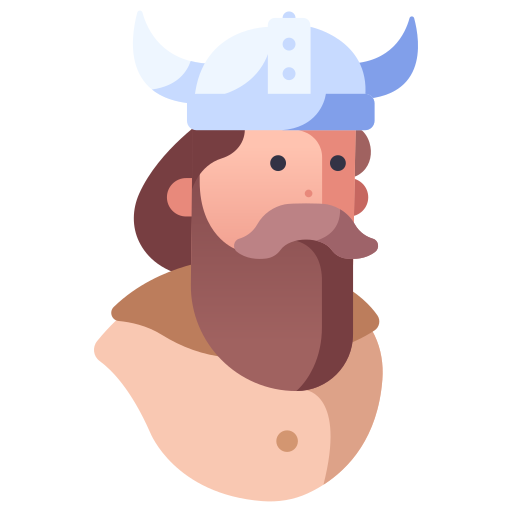
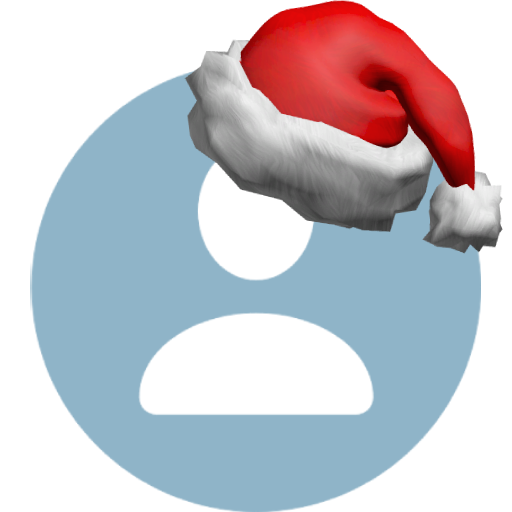
gg

diff --git a/src/pages/Casino/subpages/GamesByTag.module.css b/src/pages/Casino/subpages/GamesByTag.module.css
@@ -1,49 +1,114 @@
 .TagGames {
-    /* background: #153c55; */
-    padding: 0.5rem;
-    border-radius: 10px;
+  /* background: #153c55; */
+  padding: 0.5rem;
+  border-radius: 10px;
 }
 .Loading {
-    display: flex;
-    flex-direction: column;
-    justify-content: center;
-    align-items: center; 
-    height: 220px;
-    gap: 20px;
-    color: rgb(225, 225, 225);
+  display: flex;
+  flex-direction: column;
+  justify-content: center;
+  align-items: center;
+  height: 220px;
+  gap: 20px;
+  color: rgb(225, 225, 225);
 }
 .Header {
-    margin-bottom: 0.75rem;
-    display: flex;
-    align-items: center;
+  margin-bottom: 0.75rem;
+  display: flex;
+  align-items: center;
 }
 
 .Title {
-    display: flex;
-    align-items: center;
-    font-size: 0.875rem;
-    line-height: 1.25rem;
-    font-weight: 700;
-    --tw-text-opacity: 1;
-    color: rgb(255 255 255 / var(--tw-text-opacity));
+  display: flex;
+  align-items: center;
+  font-size: 0.875rem;
+  line-height: 1.25rem;
+  font-weight: 700;
+  --tw-text-opacity: 1;
+  color: rgb(255 255 255 / var(--tw-text-opacity));
 }
 
 .MoreLoadingAnimation {
-    height: 15rem;
-    width: 15rem;
-    border-radius: 0.375rem;
+  height: 15rem;
+  width: 15rem;
+  border-radius: 0.375rem;
 }
 
 @keyframes rotateAnimation {
-    0% {
-        transform: scale(1);
-    }
+  0% {
+    transform: scale(1);
+  }
 
-    50% {
-        transform: scale(1.25);
-    }
+  50% {
+    transform: scale(1.25);
+  }
 
-    100% {
-        transform: scale(1);
-    }
+  100% {
+    transform: scale(1);
+  }
+}
+
+/* ==================================================== */
+.PromotionsHeader {
+  height: 250px;
+  width: 100%;
+  padding: 1rem;
+  display: flex;
+  justify-content: space-between;
+  align-items: flex-end;
+  flex-direction: column-reverse;
+  border-bottom-left-radius: 10px;
+  border-bottom-right-radius: 10px;
+  position: relative;
+}
+.PromoBanner {
+  display: flex;
+  justify-content: flex-start;
+  height: max-content;
+  align-items: center;
+  opacity: 0.5;
+}
+.PromoBanner img {
+  height: 100%;
+  left: 50%;
+  max-height: 407px;
+  min-width: 768px;
+  object-fit: cover;
+  position: absolute;
+  top: 0;
+  transform: translateX(-50%);
+  z-index: -1;
+  width: 100%;
+  object-position: top;
+  border-bottom-left-radius: 20px;
+  border-bottom-right-radius: 20px;
+}
+.Title {
+  font-size: 2rem;
+  font-weight: 700;
+  color: white;
+  display: flex;
+  align-items: center;
+  justify-content: flex-start;
+  flex-direction: column;
+  column-gap: 0.5rem;
+  margin: auto;
+  z-index: 99;
+}
+.Title svg {
+  height: 2rem;
+  width: 2rem;
+}
+.Title p {
+  font-size: 1rem;
+  font-weight: 700;
+  color: white;
+  display: flex;
+  align-items: center;
+  justify-content: flex-start;
+  flex-direction: row;
+  column-gap: 0.5rem;
+  margin: auto;
+  text-wrap: wrap;
+  text-align: center;
 }

diff --git a/src/pages/Casino/subpages/GamesByTag.jsx b/src/pages/Casino/subpages/GamesByTag.jsx
@@ -21,11 +21,12 @@ const GamesByTag = () => {
   const dispatch = useDispatch();
   const lang = useSelector((state) => state.app.lang); // Necessary for rerendering translations
   const location = useLocation();
-  const { label } = location.state || {};
+  // const { label } = location.state || {};
 
   const user = useSelector((state) => state.login.user);
 
   const [menuTag, setMenuTag] = useState(null);
+  const [label, setLabel] = useState(null);
   const [items, setItems] = useState({ Data: null });
 
   const casinoByTags = useSelector((state) => state.casino.casinoByTags);
@@ -33,10 +34,14 @@ const GamesByTag = () => {
   const casinoIcons = useSelector((state) => state.app.casinoIcons);
 
   useEffect(() => {
+    if (location.state && location.state.label) {
+      setLabel(location.state.label);
+    }
+
     return () => {
       dispatch(casinoActions.reset());
     };
-  }, []);
+  }, [location.state, dispatch]);
 
   useEffect(() => {
     const searchParams = new URLSearchParams(location.search);

diff --git a/src/pages/Casino/subpages/VirtualGames.jsx b/src/pages/Casino/subpages/VirtualGames.jsx
@@ -60,13 +60,26 @@ const VirtualGames = () => {
   return (
     <>
       <AnimatePresence>{barLoading && <BarLoading />}</AnimatePresence>
-
+      {/* <div className={classes.PromotionsHeader}>
+        <div className={classes.Title}>
+          <span>{translate(`Promotions`)}</span>
+          <p>
+            {translate(
+              `Explore exclusive casino and sportsbook promotions and special bonuses to boost your play`
+            )}
+            .
+          </p>
+        </div>
+        <div className={classes.PromoBanner}>
+          <img src={PromoImage} alt="" />
+        </div>
+      </div> */}
       {!barLoading ? (
         <div className={classes.TagGames}>
           {items?.Data ? (
             <GridGames
               collection={items}
-              icon={<VirtualGamesIcon/>}
+              icon={<VirtualGamesIcon />}
               title={translate(`Virtual Games`)}
               loading={false}
               bigTitle={true}

diff --git a/src/pages/Profile/features/Overview.jsx b/src/pages/Profile/features/Overview.jsx
@@ -84,7 +84,7 @@ const Overview = () => {
         <DecorationDiv color="primary">
           <>
             <p className={classes.TotalName}>{translate("Reserved Balance")}</p>
-            <p className={classes.TotalBits}>
+            <div className={classes.TotalBits}>
               <CoinsIcon />
               {user?.Wallet.ReservedBalance}
               <div
@@ -101,7 +101,7 @@ const Overview = () => {
               >
                 <InfoIcon />
               </div>
-            </p>
+            </div>
           </>
         </DecorationDiv>
         <div

diff --git a/src/features/Layout/features/Topbar.module.css b/src/features/Layout/features/Topbar.module.css
@@ -682,8 +682,8 @@
 }
 
 .UserImage {
-  height: 1.7rem;
-  width: 1.7rem;
+  height: 2rem;
+  width: 2rem;
   border-radius: 50%;
   background-size: cover;
   background-position: center;
